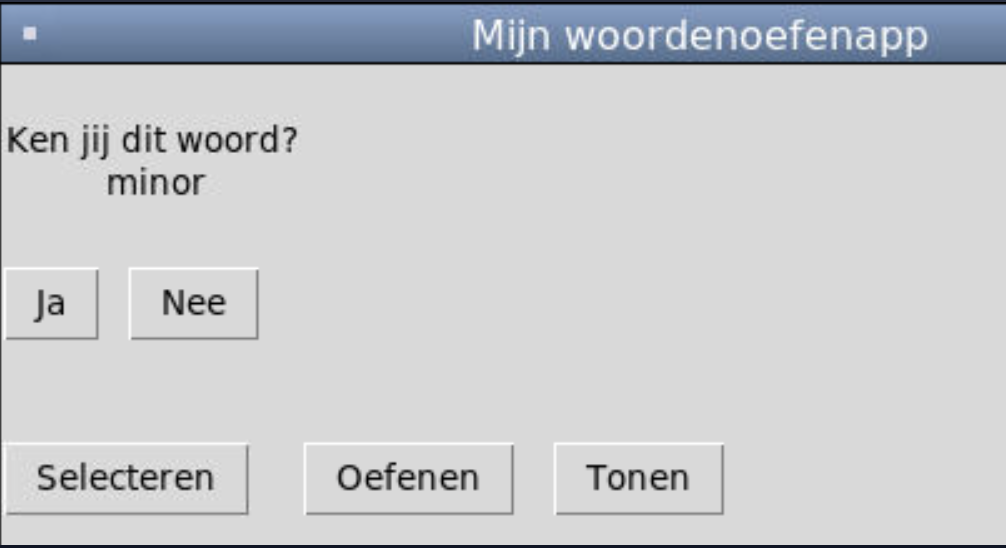
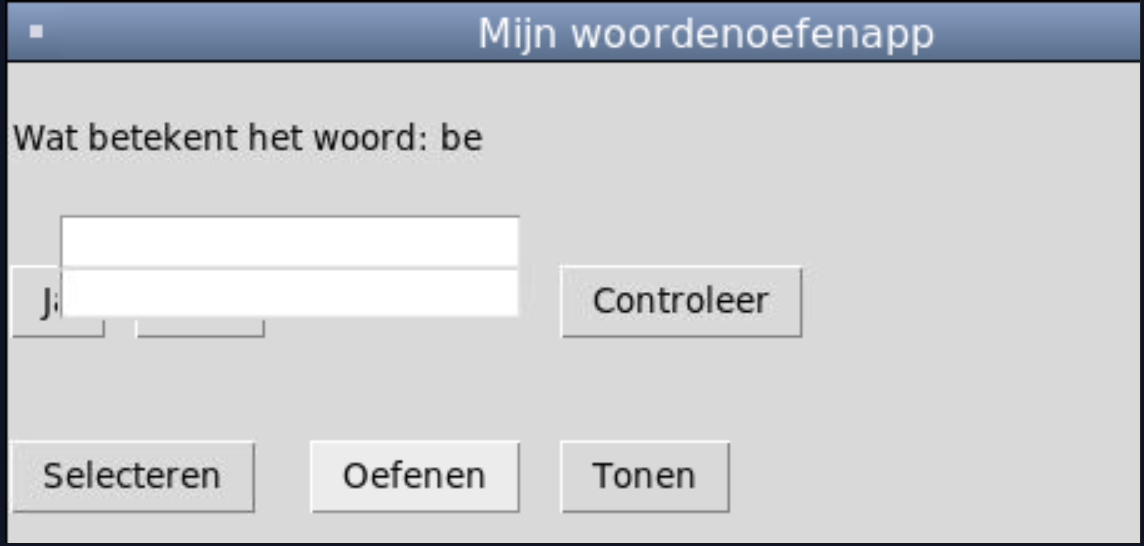
GitBook: [#208] No subject

diff --git a/module-4.1-tkinter/les-4/les-4b.md b/module-4.1-tkinter/les-4/les-4b.md
@@ -1,0 +1,60 @@
+# Les 4b
+
+**1) Verstop de ja- en nee-knop en het uitvoerveld**
+
+Zoals we het nu geprogrammeerd hebben, zijn de knoppen die bij selecteren horen (ja, nee en het uitvoerveld) meteen al in beeld:
+
+<figure><img src="../../.gitbook/assets/image (1).png" alt=""><figcaption></figcaption></figure>
+
+Maar die moeten alleen in beeld komen als de gebruiker op selecteren gedrukt heeft. Dat gaan we zou programmeren:
+
+1. Verplaats alle .place() codes die horen bij selecteren van het hoofdprogramma (dat niet is ingesprongen) naar de functie `selecteren()`.&#x20;
+
+Voer nu je programma uit en kijk of de knoppen aan het begin wegzijn, en terugkomen als je op Selecteren drukt.
+
+&#x20;**2) Oefenen, de opzet**
+
+Dan gaan we nu aan de slag met de oefenknop. We beginnen nog even zonder jouw oude codes.
+
+1. Maak een lege functie oefenen()
+2. Koppel deze functie aan de oefenknop
+3. Begin in de functie oefenen met het uitwissen van de knoppen van selecteren, want die hebben we nu niet nodig. Dat doe je zo: \
+   `jaknop.place_forget()`\
+   `neeknop.place_forget()`
+4. Maak deze dingen aan:
+   1. Een invoerveld voor de betekenis van het woord&#x20;
+   2. Een invoerveld voor de zin
+   3. Een nieuwe knop die gaat controleren of het woord goed is. We noemen die de `controleerknop`.
+   4.  Een variabele en een functie voor de controleerknop:\
+       `controleerknop_is_ingedrukt = IntVar()`
+
+       ``\
+       `def controleerknop_ingedrukt():` \
+       &#x20;  `controleerknop_is_ingedrukt.set(1)`
+5. Laat deze knop en de velden verschijnen als er op Oefenen geklikt is
+
+Test je code goed voordat je verder gaat!
+
+**3) Oefenen, de invulling**
+
+Nu ga de de functie ook echt invullen. Bekijk in jouw oude code en zet deze om, zodat dit er allemaal weer op zit:
+
+* Vroeger gebruikte je een input() code, en die zet het programma vanzelf op pauze. Dat moet nu in tkinter anders. \
+  Dus: de functie wacht bij ieder woord tot er op de controleerknop is gedrukt met\
+  `controleerknop.wait_variable(controleerknop_is_ingedrukt)`
+* De gebruiker kan een betekenis invoeren&#x20;
+  * Die betekenis wordt opgeslagen in het bestand in de kolom **Betekenis-ingevoerd**
+  * Is de betekenis goed (gelijk aan wat er in het bestand staat) dan schrijf je goed in het bestand bij de kolom **Goed**
+  * Is de betekenis fout, dan sla je fout op in de kolom **Goed**
+* De gebruiker kan een zin invoeren met het woord erin. Die sla jij op in de kolom **Zin**.
+
+**4) Nog wel een foutje... (extra)**
+
+Oefenen werkt nu goed maar... selecteren niet! Als je op selecteren drukt komen alle knoppen en velden in beeld:
+
+<figure><img src="../../.gitbook/assets/image.png" alt=""><figcaption></figcaption></figure>
+
+We gaan dit foutje in de volgende les oplossen, maar denk alvast eens na hoe je dit zou kunnen aanpakken!&#x20;
+
+
+

diff --git a/module-4.1-tkinter/les-3/les-3b.md b/module-4.1-tkinter/les-3/les-3b.md
@@ -22,7 +22,7 @@ Probeer je code nu weer uit.
 
 Als het goed is, doet je code het nu maar... alle woorden komen heel snel achter elkaar! Je ziet dus alleen het laatste woord. Zo ziet dat er waarschijnlijk uit (maar jij zou ook een ander woord kunnen hebben als je een andere versie van de woordenlijst gebruikt)
 
-<figure><img src="../../.gitbook/assets/image.png" alt=""><figcaption></figcaption></figure>
+<figure><img src="../../.gitbook/assets/image (3).png" alt=""><figcaption></figcaption></figure>
 
 Wil je zeker weten dat inderdaad alle woorden langskomen? Zet dan eens een deze codes nadat je het uitvoerveld hebt aangepast:
 
@@ -64,4 +64,8 @@ Test je code nu uit! Druk steeds op de ja of nee knop en kijk of er steeds een n
 
 In de selecteerfase van je programma gaat de gebruiker voor ieder woord aangeven of ze het al kennen. Dat deden we in de tekstversie met het intypen van ja of nee. In tkinter gaan we nu dus iets doen met de ingedrukte ja of nee knop.
 
-We hebben de speciale variabele `knop_gekozen`gemaakt zodat we weten welke van de twee knoppen er gebruikt is. Staat deze variabele op "ja", dan is de jaknop indrukt, en staat hij op "nee" dan natuurlijk de neeknop. Dat kun jij in de code gebruiken! Pas je code die je al had aan zodat het netjes reageert op de knoppen.
+We hebben de speciale variabele `knop_gekozen`gemaakt zodat we weten welke van de twee knoppen er gebruikt is. Staat deze variabele op "ja", dan is de jaknop indrukt, en staat hij op "nee" dan natuurlijk de neeknop. Dat kun jij in de code gebruiken!&#x20;
+
+Pas je code die je al had aan zodat het netjes reageert op de knoppen.
+
+Zorg er ook voor dat de ja en nee waardes opgeslagen worden in je csv-bestand.

diff --git a/module-4.1-tkinter/les-2/README.md b/module-4.1-tkinter/les-2/README.md
@@ -2,13 +2,16 @@
 
 ## Slides
 
-[Slides](https://slides.com/felienne/pidk-k4-m1tk-l1/edit)
+* [Slides les 2 ](https://slides.com/felienne/pidk-k4-m1tk-l2)
+
+In deze slides staat het programma dat de lln op het einde van de vorige les gemaakt zouden moeten hebben. We lopen dat regel voor regel door waarbij steeds een andere leerling de beurt krijgt en vertelt wat de regel moet doen. Een heel makkelijke en effectieve manier om kennis te herhalen en verdiepen.&#x20;
 
 ## Leerdoelen
 
 * UI maken met tkinter
-* Ui laten wachten op een knop
 
 ## Instructies voor de leerkracht
 
-In deze les gaan leerlingen aan de slag met een UI voor hun al eerder gemaakte rekenmachines. Ze gaan die nu van een UI voorzien met TKinter. Op het einde van de les hebben de leerlingen ongeveer [dit programma](https://replit.com/@mevrHermans/pidk-k4-tki-l2-einde#main.py).
+In deze les gaan leerlingen aan de slag met een UI voor hun al eerder gemaakte woordenoefenapp. Ook die zetten ze om naar TKinter, maar dat gaat nu anders dan met de rekenmachine, ze beginnen met een lege TKinter app en voegen stap voor stap codes in.
+
+Op het einde van de les hebben de leerlingen ongeveer [dit programma](https://replit.com/@mevrHermans/pidk-k4-tki-l2-einde#main.py).

diff --git a/module-4.1-tkinter/les-3/README.md b/module-4.1-tkinter/les-3/README.md
@@ -1,2 +1,19 @@
 # Les 3
 
+## Slides
+
+* [Slides les 3](https://slides.com/felienne/pidk-k4-m1tk-l3/edit)
+
+In deze slides laten we een vorm van het eindproduct zien. Zo weten leerlingen goed waar ze naartoe werken.
+
+## Leerdoelen
+
+* Lijsten in Python herhalen
+* UI laten wachten op een knop
+
+## Instructies voor de leerkracht
+
+In deze les gaan leerlingen verder met de UI van de woordenoefenapp, ze zetten in deze les het stukje programma voor het selecteren van woorden om. Hiervoor moet het programma wachten tot de ja of nee knop is ingedrukt, waarvoor een speciaal stukje code nodig is.
+
+Op het einde van de les hebben de leerlingen ongeveer dit programma.
+

diff --git a/module-4.1-tkinter/les-4/README.md b/module-4.1-tkinter/les-4/README.md
@@ -1,0 +1,21 @@
+# Les 4
+
+## Slides
+
+* [Slides les 4](https://slides.com/felienne/pidk-k4-m1tk-l4)
+
+In deze slides lezen we weer samen de codes van les 3 door, een regel per leerling.
+
+## Leerdoelen
+
+* Dictionaries in Python herhalen
+* UI elementen laten verschijnen na indrukken knop
+
+
+
+## Instructies voor de leerkracht
+
+In deze les gaan leerlingen verder met de UI van de woordenoefenapp. In deze les laten ze de relevante UI elementen voor selecteren (ja, nee en uitvoerveld) pas verschijnen wanneer de knop selecteren wordt ingedrukt.
+
+Op het einde van de les hebben de leerlingen ongeveer dit programma.
+

diff --git a/SUMMARY.md b/SUMMARY.md
@@ -143,6 +143,9 @@
     * [Les 2b](module-4.1-tkinter/les-2/les-2b.md)
   * [Les 3](module-4.1-tkinter/les-3/README.md)
     * [Les 3b](module-4.1-tkinter/les-3/les-3b.md)
+  * [Les 4](module-4.1-tkinter/les-4/README.md)
+    * [Les 4b](module-4.1-tkinter/les-4/les-4b.md)
+  * [Les 5](module-4.1-tkinter/les-5.md)
 * [Module 4.2 - JavaScript](module-4.2-javascript/README.md)
   * [Les 1](module-4.2-javascript/les-1/README.md)
     * [Les 1b](module-4.2-javascript/les-1/les-1b.md)

diff --git a/module-4.1-tkinter/les-1/README.md b/module-4.1-tkinter/les-1/README.md
@@ -2,10 +2,11 @@
 
 ## Slides
 
-Nog geen slides beschikbaar
+* [Slides les 1](https://slides.com/felienne/pidk-k4-m1tk-l1/edit)
 
 ## Leerdoelen
 
+* Herhalen functies in Python
 * UI maken met tkinter
 
 ## Instructies voor de leerkracht

diff --git a/module-4.1-tkinter/les-5.md b/module-4.1-tkinter/les-5.md
@@ -1,0 +1,2 @@
+# Les 5
+
